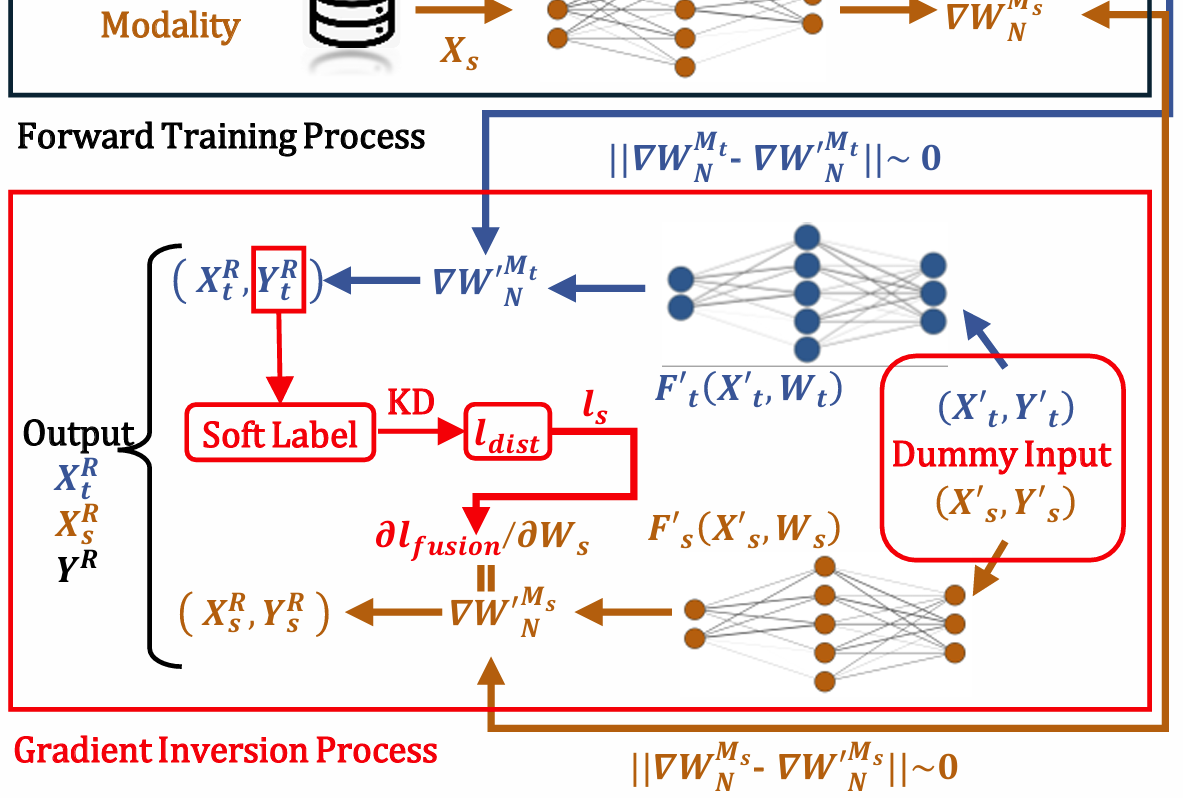
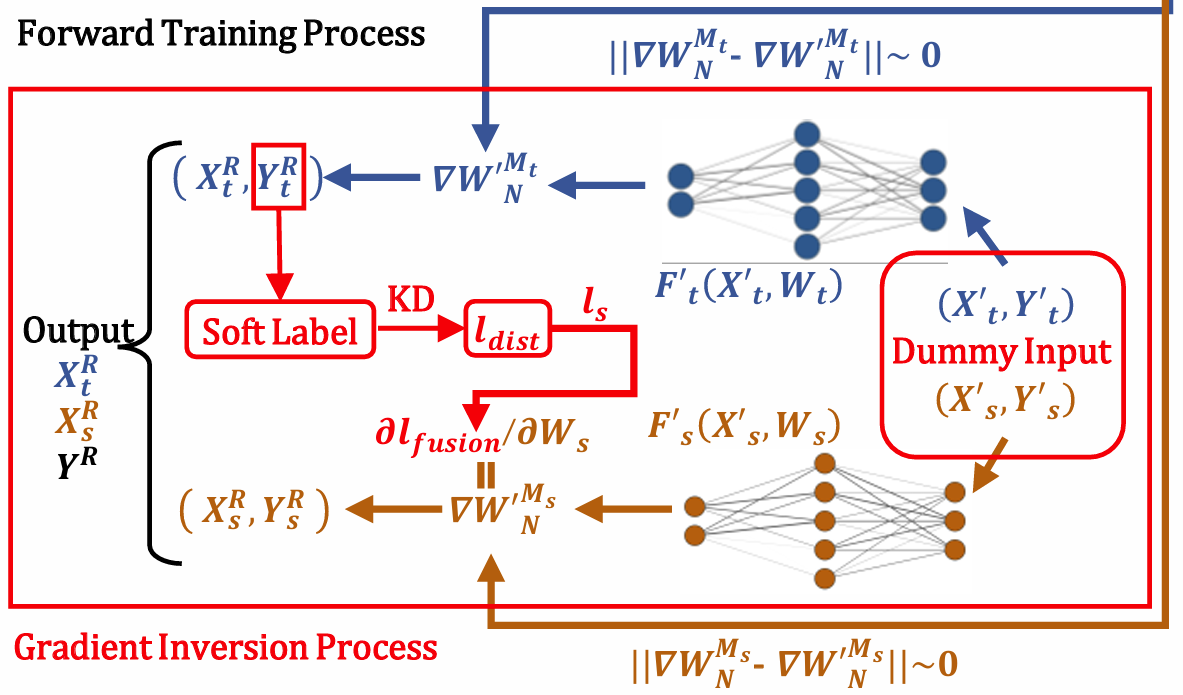
refine

Changed region(s): [[0.0, 0.0, 1.0, 0.9971]]

diff --git a/_sass/_modern.scss b/_sass/_modern.scss
@@ -58,6 +58,10 @@
   position: relative;
   z-index: 1;
 
+  @media (max-width: 768px) {
+    margin-top: 3.5em;
+  }
+
   @include breakpoint($medium) {
     padding: 2rem 2rem 4rem;
   }
@@ -409,10 +413,14 @@
 
   .rc-img {
     flex-shrink: 0;
-    width: 200px;
+    width: 280px;
+    height: 140px;
+    overflow: hidden;
 
     img {
       width: 100%;
+      height: 100%;
+      object-fit: cover;
       border-radius: var(--radius-sm);
       display: block;
     }
@@ -420,7 +428,7 @@
 
   .rc-img-stack {
     flex-shrink: 0;
-    width: 200px;
+    width: 280px;
 
     img {
       width: 100%;
@@ -436,7 +444,7 @@
 
   .rc-img-row {
     flex-shrink: 0;
-    width: 240px;
+    width: 320px;
     display: flex;
     gap: 8px;
 
@@ -476,6 +484,23 @@
 
     em {
       color: var(--color-text-secondary);
+    }
+  }
+
+  .research-badge {
+    display: inline-block;
+    padding: 1px 8px;
+    background: var(--color-primary-bg);
+    border: 1px solid rgba(197, 189, 176, 0.5);
+    border-radius: 3px 8px 3px 8px;
+    font-size: 0.84em;
+    font-weight: 600;
+    color: #b8860b;
+    margin-left: 2px;
+
+    i {
+      margin-right: 3px;
+      font-size: 0.85em;
     }
   }
 
@@ -586,6 +611,37 @@
       }
     }
   }
+}
+
+/* ---- Teaching ---- */
+
+.teaching-card {
+  padding: 1rem 0;
+  border-bottom: 1px solid var(--color-border);
+  display: flex;
+  align-items: baseline;
+  gap: 1.2rem;
+
+  &:last-of-type {
+    border-bottom: none;
+  }
+}
+
+.teaching-term {
+  flex-shrink: 0;
+  font-size: 0.84em;
+  font-weight: 600;
+  color: var(--color-primary);
+  padding: 1px 10px;
+  background: var(--color-primary-bg);
+  border: 1px solid rgba(197, 189, 176, 0.5);
+  border-radius: 3px 8px 3px 8px;
+}
+
+.teaching-body {
+  color: var(--color-text-secondary);
+  font-size: 0.95em;
+  line-height: 1.6;
 }
 
 /* ---- Modern Service ---- */

diff --git a/_sass/_masthead.scss b/_sass/_masthead.scss
@@ -6,25 +6,42 @@
   position: fixed;
   top: 0;
   width: 100%;
-  height: $masthead-height;
-  background: transparent;
-  backdrop-filter: none;
-  -webkit-backdrop-filter: none;
+  min-height: $masthead-height;
+  height: auto;
+  background: #faf8f4;
   border-bottom: none;
   z-index: 20;
   animation: intro 0.3s both;
   animation-delay: 0.15s;
+  overflow: hidden;
+
+  &::after {
+    content: '';
+    position: absolute;
+    top: 0;
+    left: 0;
+    width: 100vw;
+    height: 100vh;
+    background: url('/images/sketch-girl-star.png') center bottom / cover no-repeat;
+    opacity: 0.09;
+    filter: saturate(60%) brightness(1.15);
+    pointer-events: none;
+  }
 
   &__inner-wrap {
     @include container;
     @include clearfix;
-    padding: 1em 1.5em;
+    padding: 0.8em 1em;
     font-family: $header-font-family;
     max-width: 960px;
     margin: 0 auto;
 
     @include breakpoint($x-large) {
       max-width: $x-large;
+    }
+
+    @media (min-width: 769px) {
+      padding: 1em 1.5em;
     }
 
     nav {
@@ -61,7 +78,14 @@
     font-weight: 500;
     letter-spacing: 0.01em;
     padding: 0.3em 0;
+    margin: 0 0.6rem;
     transition: color 0.25s ease;
+
+    @media (max-width: 768px) {
+      font-size: 0.82em;
+      margin: 0 0.4rem;
+      padding: 0.25em 0;
+    }
 
     &::after {
       content: '';

diff --git a/_sass/_navigation.scss b/_sass/_navigation.scss
@@ -202,10 +202,13 @@
   }
 
   .visible-links {
-    display: table;
+    display: flex;
+    flex-wrap: wrap;
+    justify-content: center;
+    gap: 0;
 
     li {
-      display: table-cell;
+      display: inline-block;
       vertical-align: middle;
 
       &:first-child {

diff --git a/_pages/research.md b/_pages/research.md
@@ -29,13 +29,12 @@ layout: modern
 </div>
 
 <div class="research-card">
-  <div class="rc-img-stack">
-    <img src="../images/fig1.png" alt="CoBRA figure 1">
-    <img src="../images/fig2.png" alt="CoBRA figure 2">
+  <div class="rc-img">
+    <img src="../images/cobra_demo.gif" alt="CoBRA demo">
   </div>
   <div class="rc-body">
     <p>
-      <strong>Xuan Liu</strong>, Haoyang Shang, Haojian Jin. <a href="https://arxiv.org/abs/2509.13588">"CoBRA: Programming Cognitive Bias in Social Agents using Classic Social Science Experiments"</a> <em>CHI 2026</em> [<a href="https://github.com/assassin808/CoBRA">Code</a>] [<a href="https://cobra.clawder.ai/">Project Page</a>]
+      <strong>Xuan Liu</strong>, Haoyang Shang, Haojian Jin. <a href="https://arxiv.org/abs/2509.13588">"CoBRA: Programming Cognitive Bias in Social Agents using Classic Social Science Experiments"</a> <em>CHI 2026</em> <span class="research-badge"><i class="fas fa-trophy"></i> Best Paper Award</span> [<a href="https://github.com/assassin808/CoBRA">Code</a>] [<a href="https://cobra.clawder.ai/">Project Page</a>]
     </p>
   </div>
 </div>
@@ -75,26 +74,11 @@ layout: modern
 
 <div class="research-card">
   <div class="rc-img">
-    <img src="../images/Product1.png" alt="Patent">
+    <img src="../images/breathing_demo.gif" alt="BreathingCORE demo">
   </div>
   <div class="rc-body">
     <p>
-      <strong>Chinese Patent CN 109589733 B</strong> — <em>An environmentally friendly outdoor dust reduction device using solar thermal energy.</em>
-    </p>
-  </div>
-</div>
-
-<div class="research-card">
-  <div class="rc-img-row">
-    <img src="../images/GreenOxy.jpg" alt="GreenOxy">
-    <img src="../images/GreenOxy3.jpg" alt="GreenOxy prototype">
-  </div>
-  <div class="rc-body">
-    <p>
-      <strong>GreenOxy: A Living Air Purifier</strong> — Combining advanced technology with natural elements to bring vitality and serenity to daily life.
-    </p>
-    <p style="margin-top: 0.5rem;">
-      [<a href="https://breathingcore.com">Start-up Website</a>]
+      <strong>Chinese Patent CN 109589733 B</strong> — <em>An environmentally friendly outdoor dust reduction device using solar thermal energy.</em> [<a href="https://breathingcore.com">Start-up Website</a>]
     </p>
   </div>
 </div>

diff --git a/_pages/activities.md b/_pages/activities.md
@@ -11,7 +11,7 @@ layout: modern
   </div>
   <div class="ma-body">
     <strong>Topic:</strong> Reproducible Human Research Like Open-Source Code<br>
-    <strong>Venue:</strong> NICE Talk Live Session, 7 PM PT [<a href="https://x.com/academic_nice/status/2031989142603563089?s=46">Details (EN)</a>] [<a href="https://mp.weixin.qq.com/s/c2yASitFcQOHcASLRrV1LA">Details (CN)</a>]
+    <strong>Venue:</strong> NICE Talk Live Session, 7 PM PT [<a href="https://x.com/academic_nice/status/2031989142603563089?s=46">Details (EN)</a>] [<a href="https://mp.weixin.qq.com/s/c2yASitFcQOHcASLRrV1LA">Details (CN)</a>] [<a href="https://www.youtube.com/live/rY5uwNTig5M?si=q3p-JMYxheXBDYN9">Recording</a>]
   </div>
 </div>
 

diff --git a/_pages/teaching.md b/_pages/teaching.md
@@ -1,0 +1,23 @@
+---
+title: " "
+permalink: /teaching/
+layout: modern
+---
+
+<h2 class="section-title">Teaching Assistant</h2>
+
+<div class="teaching-card">
+  <div class="teaching-term">Spring 2026</div>
+  <div class="teaching-body">
+    <strong>DSC 204A</strong> — Scalable Data Systems<br>
+    with Prof. Haojian Jin
+  </div>
+</div>
+
+<div class="teaching-card">
+  <div class="teaching-term">Spring 2026</div>
+  <div class="teaching-body">
+    <strong>DSC 190</strong> — Topics in Data Science<br>
+    with Dr. Jack Silberman
+  </div>
+</div>
